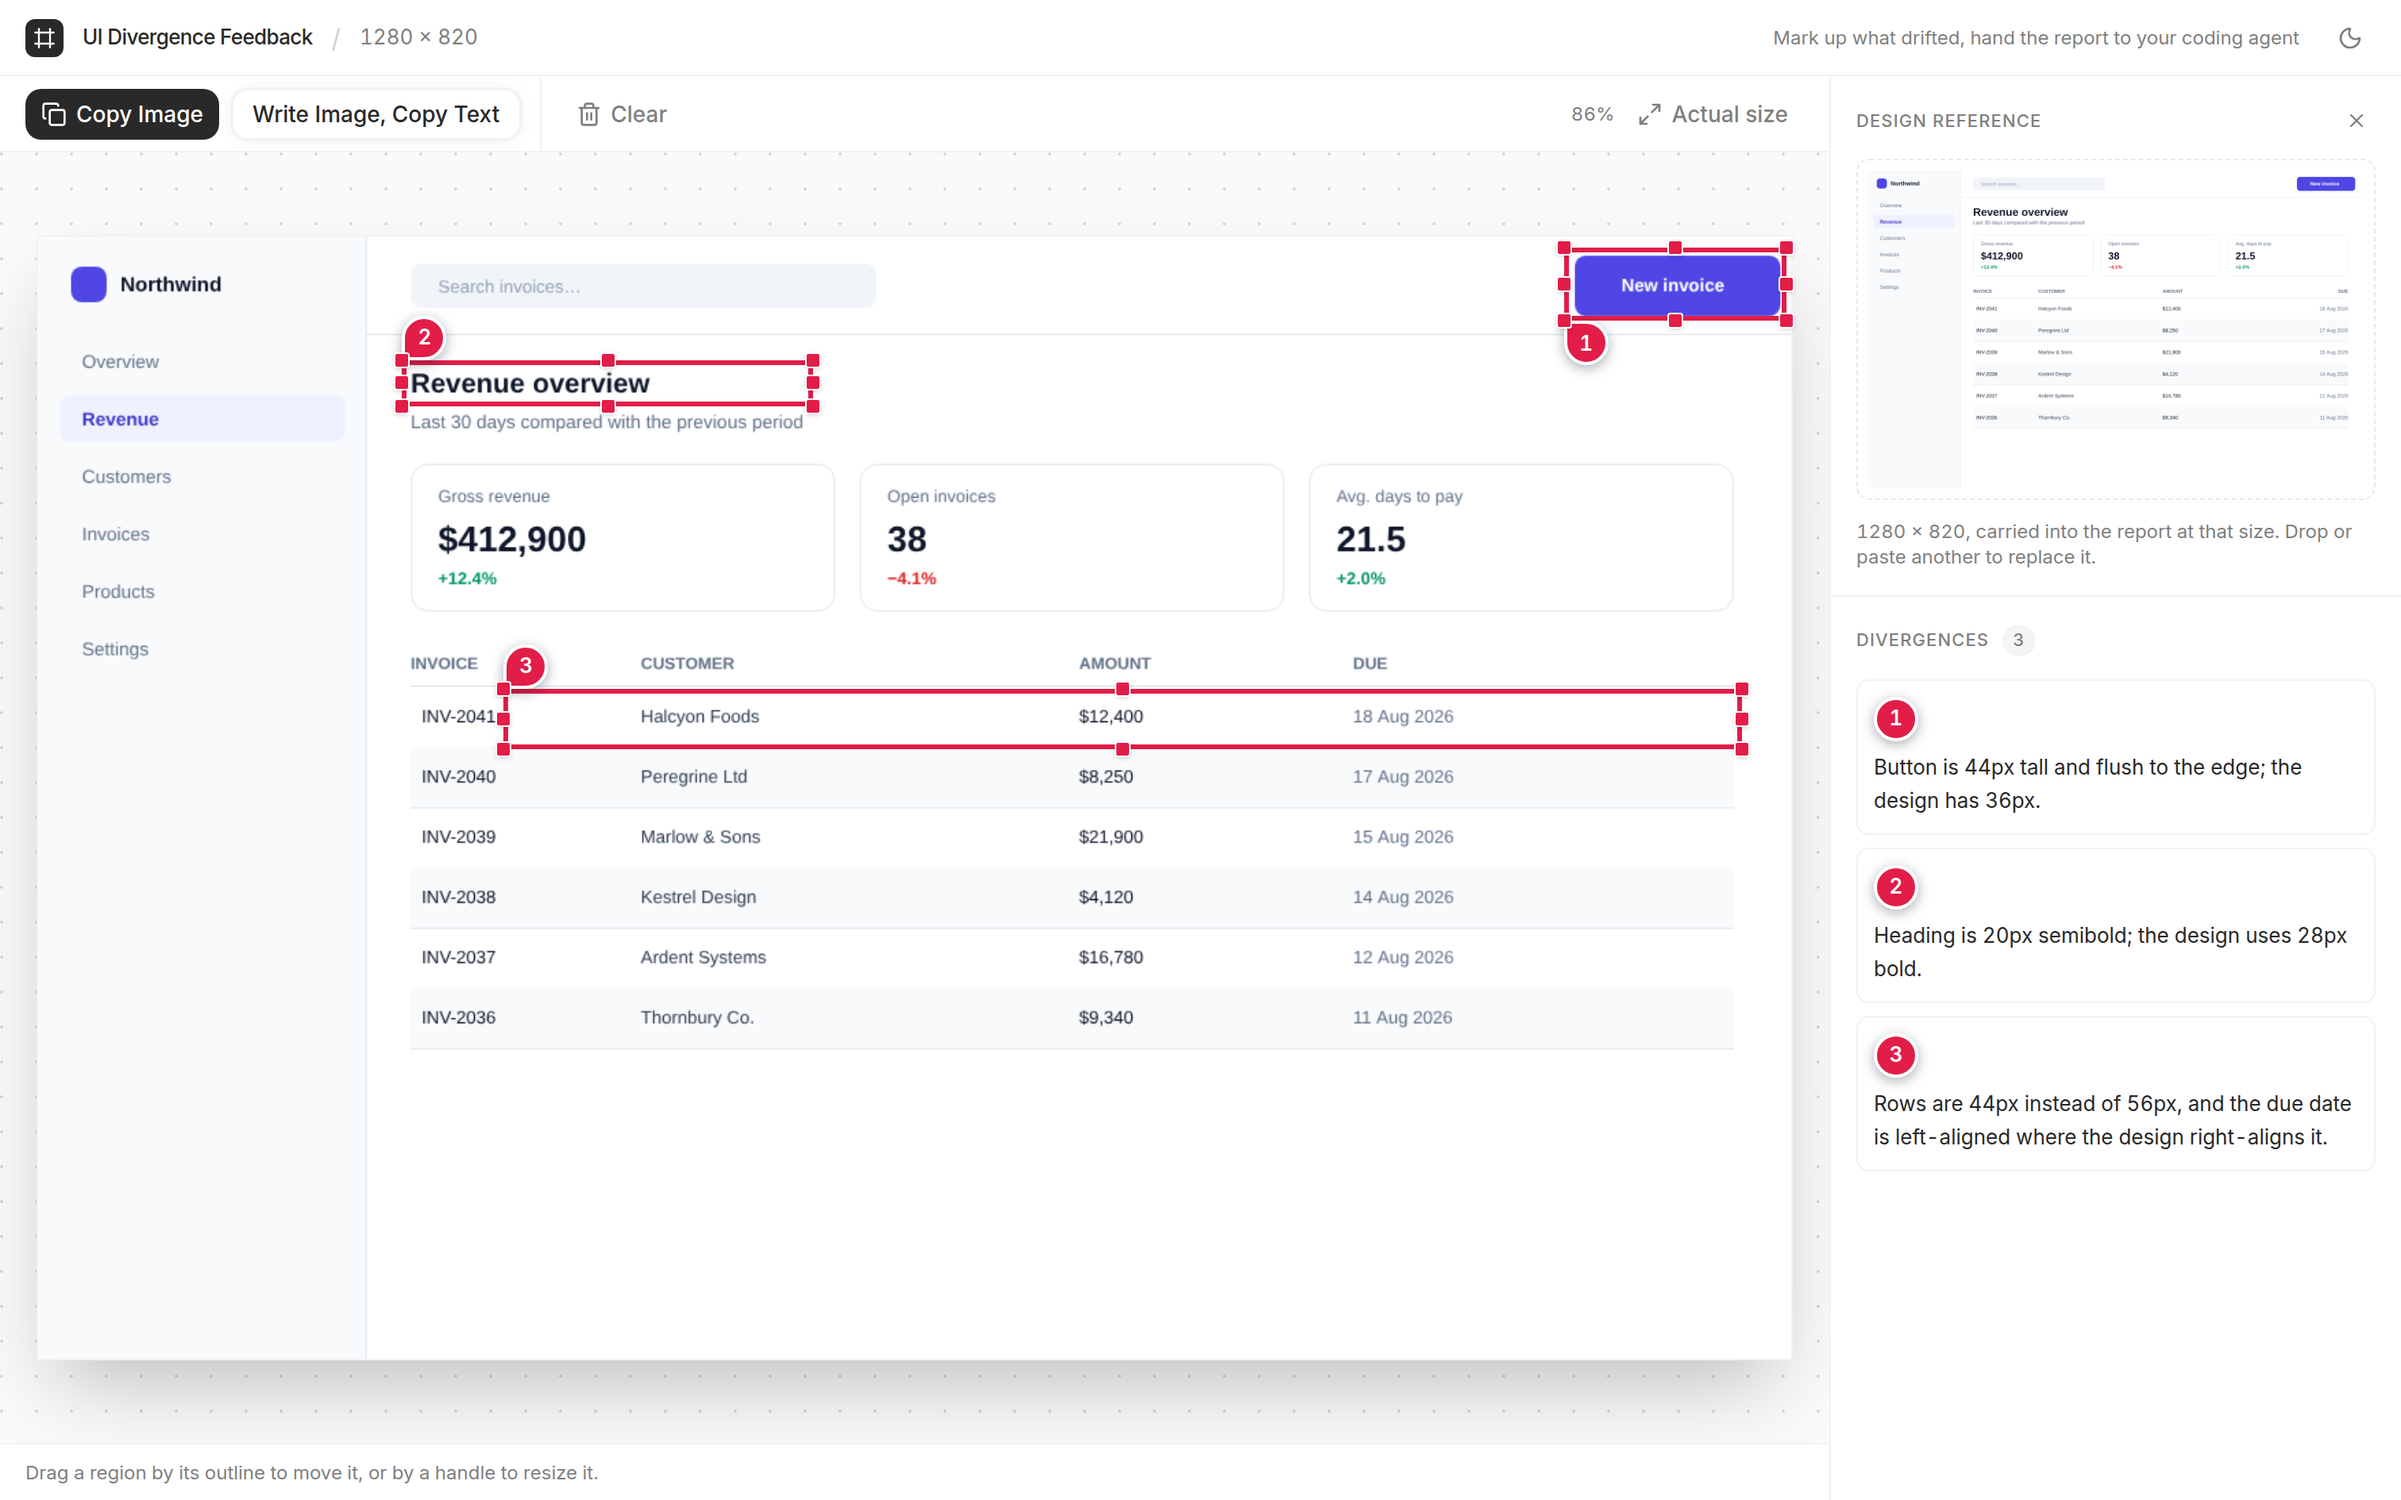
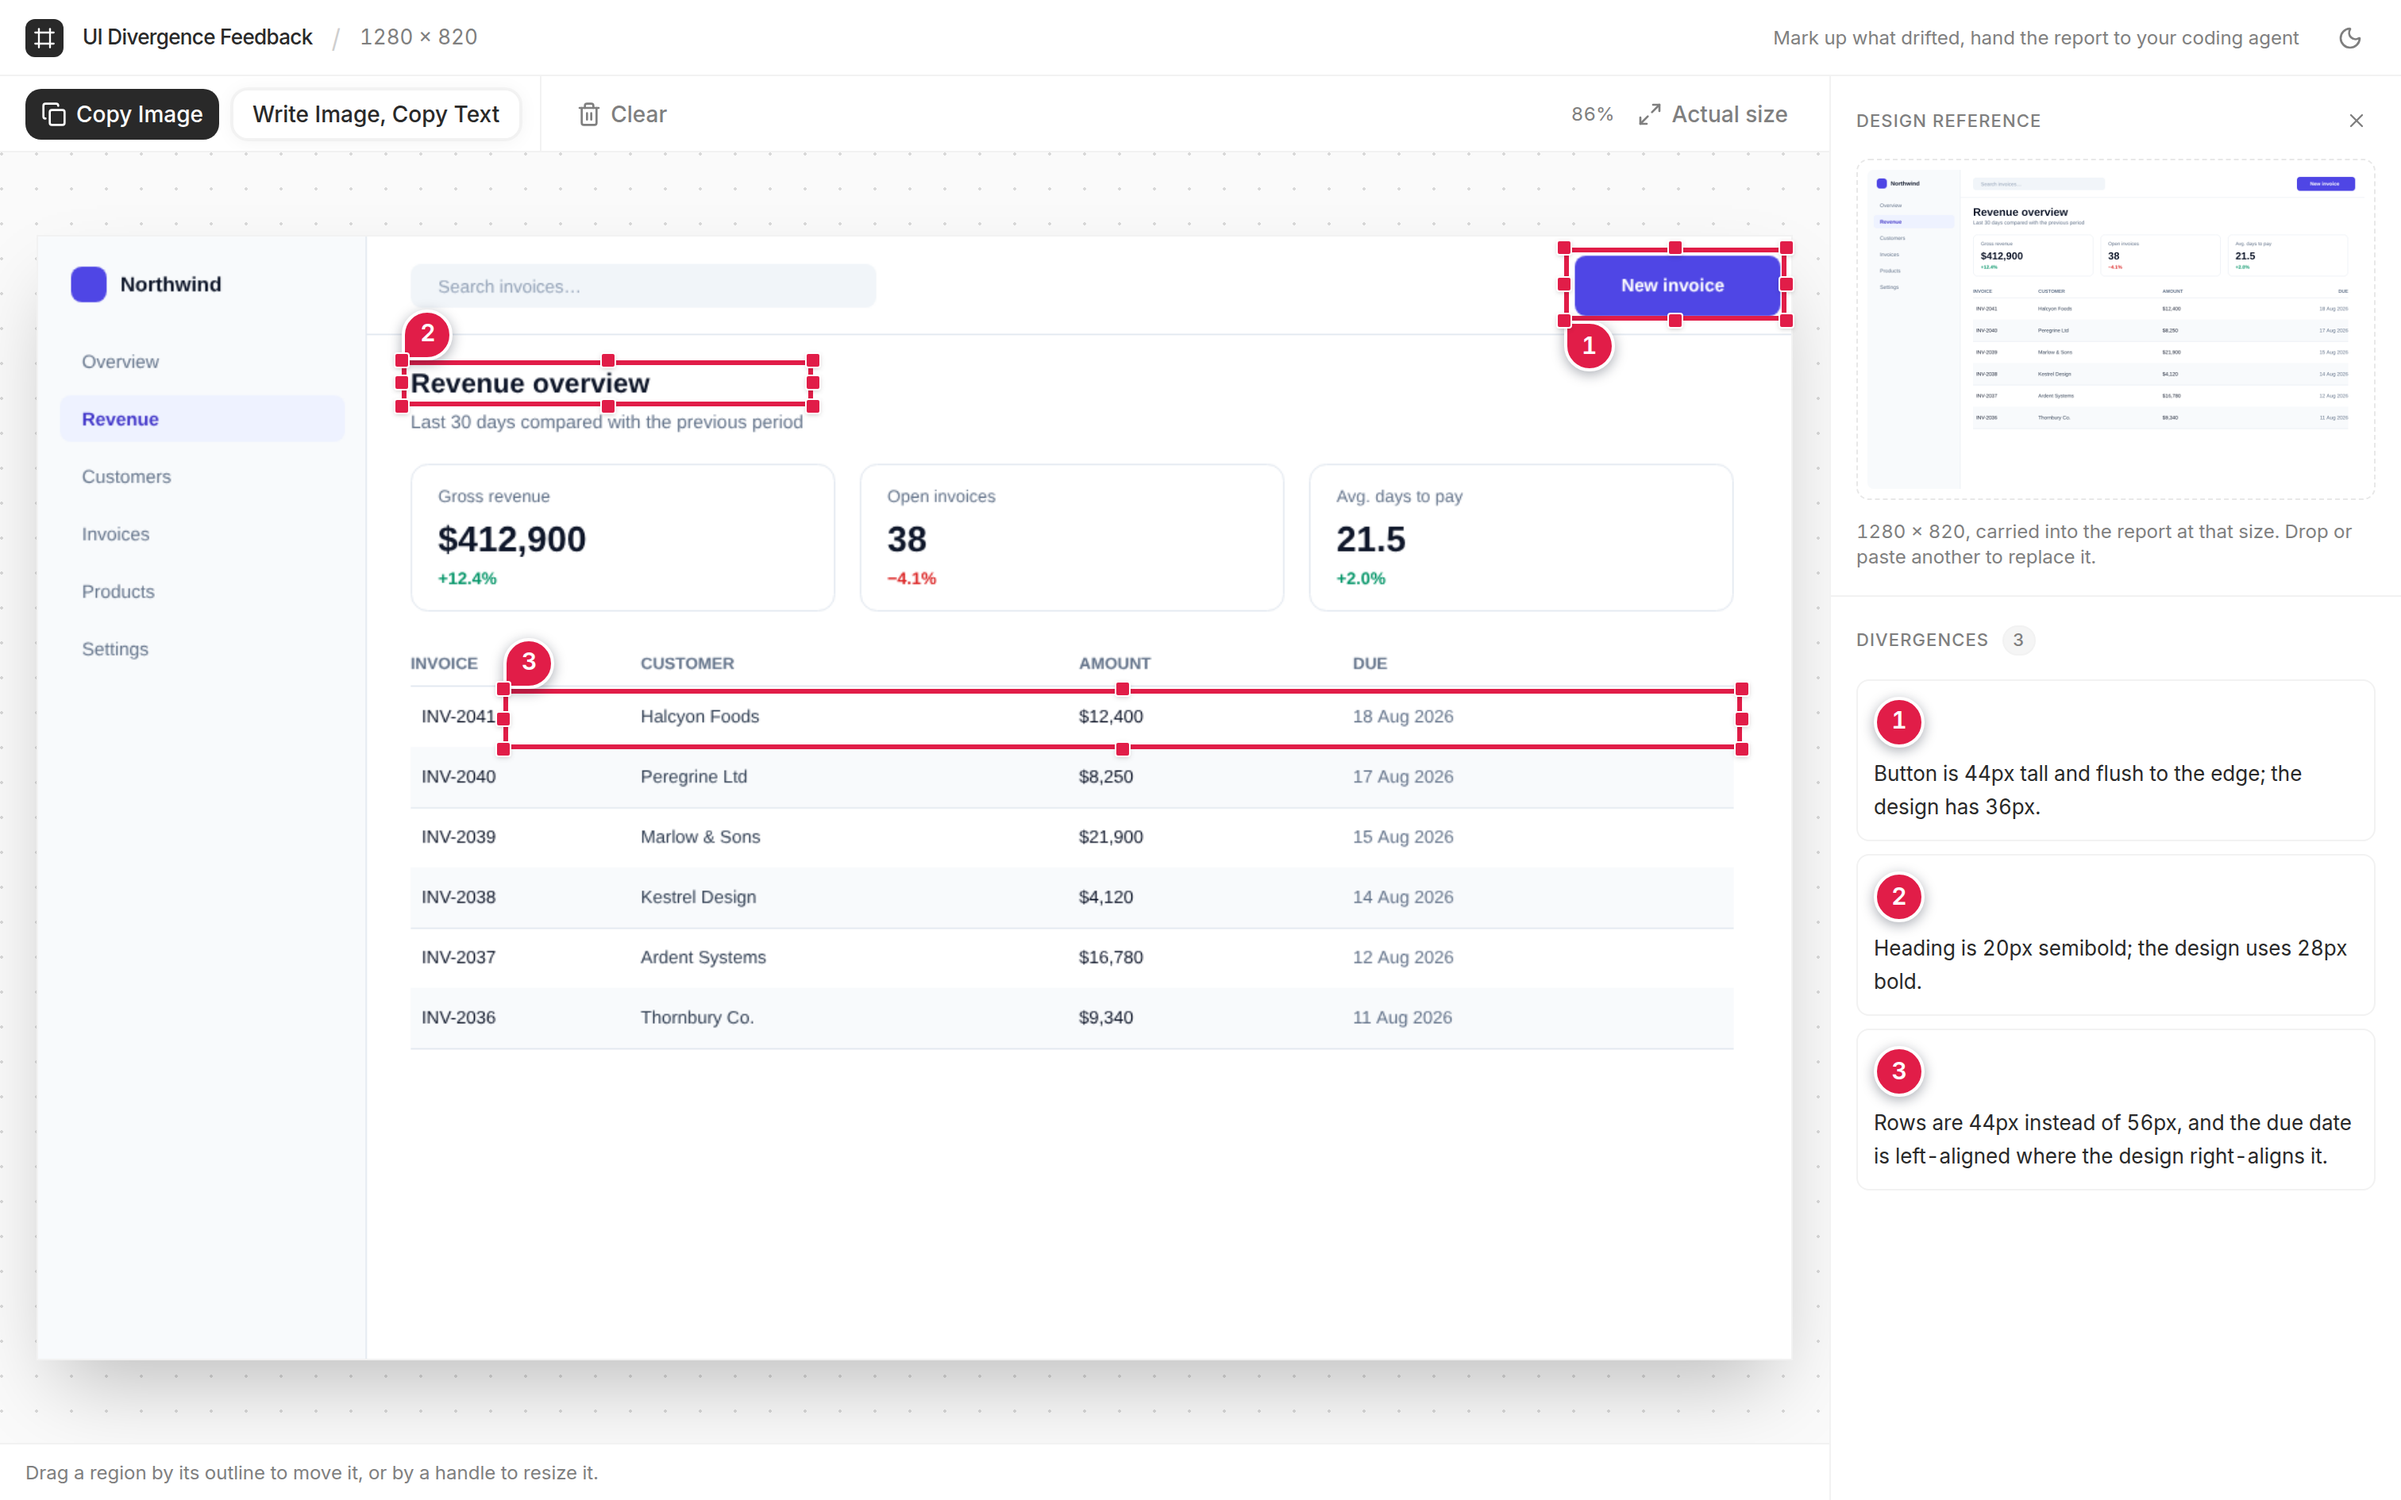
Size the pin and note card to survive being downscaled
A report is drawn at the capture's own pixels, so two sides of a
1280-wide screen make an image over 2500 across — and a coding agent's
vision pipeline resizes an image that big before reading it. Note text
set at the size of the UI underneath arrived at about two thirds of it.

Note text goes to 16px medium and the pin to 32px with a bold 15px
number, which is the join between the image and the text block beside
it. Cards wrap at 400px rather than 320px so the larger type doesn't
turn every note into a tall stack over the capture.

Claude-Session: https://claude.ai/code/session_01NH1LUWJdiPnQYq2bAbKWDi

diff --git a/src/lib/region-style.ts b/src/lib/region-style.ts
@@ -29,14 +29,19 @@ export const HANDLE_BORDER = '#ffffff'
  */
 export type PinTip = 'bottom-left' | 'top-left'
 
-export const PIN_SIZE = 28
+export const PIN_SIZE = 32
 /** Full round, so the three unpointed corners make a disc rather than a box. */
 export const PIN_RADIUS = PIN_SIZE / 2
 
 export const PIN_BACKGROUND = REGION_STROKE
 export const PIN_TEXT_COLOR = '#ffffff'
-export const PIN_FONT_SIZE = 13
-export const PIN_FONT = `600 ${PIN_FONT_SIZE}px ui-sans-serif, system-ui, sans-serif`
+export const PIN_FONT_SIZE = 15
+/**
+ * Heavier than the note it points at. The number is the whole join between the
+ * image and the text block beside it — a "3" that resamples into an "8" is a
+ * coding agent fixing the wrong thing.
+ */
+export const PIN_FONT = `700 ${PIN_FONT_SIZE}px ui-sans-serif, system-ui, sans-serif`
 
 /**
  * The white collar around the pin, and the shadow under it. Both are doing the
@@ -61,14 +66,30 @@ export const CARD_BACKGROUND = '#ffffff'
 export const CARD_TEXT_COLOR = '#0f172a'
 export const CARD_BORDER = 'rgba(15, 23, 42, 0.12)'
 export const CARD_BORDER_WIDTH = 1
-export const CARD_FONT_SIZE = 13
-export const CARD_LINE_HEIGHT = 18
-export const CARD_FONT = `400 ${CARD_FONT_SIZE}px ui-sans-serif, system-ui, sans-serif`
-export const CARD_PADDING_X = 10
-export const CARD_PADDING_Y = 8
-export const CARD_RADIUS = 10
-/** Long notes wrap rather than running off the side of the capture. */
-export const CARD_MAX_WIDTH = 320
+
+/**
+ * Larger and heavier than UI text of the same rank would be, and deliberately
+ * so. A report is drawn at the capture's own pixels — two sides of a 1280-wide
+ * screen make an image over 2500 wide — and a coding agent's vision pipeline
+ * resizes an image that big down before reading it. Text set at the size the
+ * surrounding UI uses arrives at roughly two thirds of it, which is the
+ * difference between a note being read and being guessed at.
+ *
+ * The weight matters as much as the size: a heavier stroke survives being
+ * resampled where a hairline one breaks up.
+ */
+export const CARD_FONT_SIZE = 16
+export const CARD_LINE_HEIGHT = 22
+export const CARD_FONT = `500 ${CARD_FONT_SIZE}px ui-sans-serif, system-ui, sans-serif`
+export const CARD_PADDING_X = 14
+export const CARD_PADDING_Y = 11
+export const CARD_RADIUS = 12
+/**
+ * Long notes wrap rather than running off the side of the capture. Wider than
+ * it was when the type was smaller, so a note that used to run to two lines
+ * still does rather than becoming a tall stack covering more of the capture.
+ */
+export const CARD_MAX_WIDTH = 400
 /** How far the card is held off the pin it belongs to. */
 export const CARD_GAP = 6
 

diff --git a/src/lib/region-style.test.ts b/src/lib/region-style.test.ts
@@ -37,8 +37,9 @@ describe('pinCornerRadii', () => {
   })
 
   it('writes the same corners for CSS as for the canvas', () => {
-    expect(pinBorderRadius('bottom-left')).toBe('14px 14px 14px 0px')
-    expect(pinBorderRadius('top-left')).toBe('0px 14px 14px 14px')
+    const r = `${PIN_RADIUS}px`
+    expect(pinBorderRadius('bottom-left')).toBe(`${r} ${r} ${r} 0px`)
+    expect(pinBorderRadius('top-left')).toBe(`0px ${r} ${r} ${r}`)
   })
 })
 

diff --git a/docs/adr/0003-regions-are-named-by-figma-style-comment-pins.md b/docs/adr/0003-regions-are-named-by-figma-style-comment-pins.md
@@ -16,6 +16,10 @@ The shape is the whole point. Nothing in a screenshot of a UI is disc-shaped wit
 
 A note card is taller than a pin as soon as the note runs to two lines, so the card grows *away* from the region — upwards from a pin that sits above it, downwards from one that sits below. It flips to the left of the pin when there is no room on the right. Both rules exist to stop the card lying across the divergence the note is about; the placement helper is unit-tested for exactly that, because it is not something the eye reliably catches on every capture.
 
+The pin and the card are set larger and heavier than UI text of the same rank would be, and that is not a style choice. A report is drawn at the capture's own pixels, so two sides of a 1280-wide screen make an image over 2500 pixels across, and a coding agent's vision pipeline resizes an image that big down before reading it — commonly to a long edge of around 1568. Anything set at the size the surrounding UI uses arrives at roughly two thirds of it. The note and the pin's number are the two things that must survive that, because the number is the only join between the picture and the text block beside it.
+
+This is also why the text block still carries every note as words even though the image now draws them. The duplication is the insurance: the card is what makes the report readable to a person, and the text is what makes it reliable to a model.
+
 The pin has no gap between its tip and the rectangle's corner. That is deliberate and worth not "fixing": the gap is what would make it read as a label that happens to be nearby rather than a pin stuck at that corner.
 
 Figma's pin carries the commenter's avatar, because in Figma the useful thing to know at a glance is *who*. This tool has one author and a numbered list, so the number takes the avatar's place — the pin is the only place the number is drawn on the capture, and it is what the text block's entries refer to.
